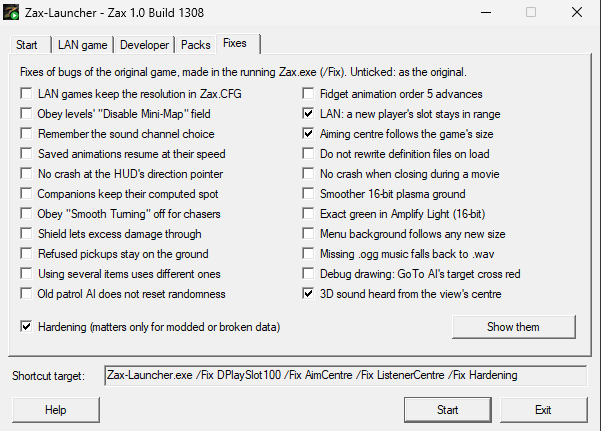
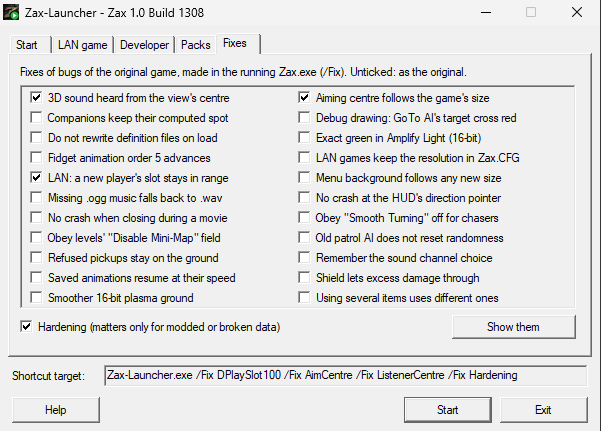
Fixes page: the fixes and the hardening fixes in scrolling lists, two per row, sorted by label
Each list is a child window with a vertical scroll bar (wheel, bar, a box taking the focus scrolls into view) whose
boxes forward their clicks to the window; fixes.h keeps its order, only the window sorts. Three-state Hardening box,
/Fix building, ini and tooltips unchanged. New README picture.

Changed region(s): [[0.03, 0.181, 0.9584, 0.7239]]

diff --git a/zax_launcher.c b/zax_launcher.c
@@ -476,6 +476,7 @@ enum {
     ID_SINGLE, ID_HOST, ID_JOIN, ID_NAME, ID_ADDRESS,
     ID_PACKS = 300, ID_PACKS_ALL, ID_PACKS_NOTE,
     ID_HARDENING = 390, ID_HARDENING_LIST,   /* the hardening group's box and the button that shows its fixes */
+    ID_FIX_LIST, ID_HARD_LIST,               /* the scrolling lists that hold the fixes' boxes */
     ID_FIX = 400   /* ID_FIX + i: the box of FIX[i] (fixes.h) */
 };
 static const char *const LAN_MODE[] = {"Off", "Host", "Join"};
@@ -522,7 +523,23 @@ static char g_zip[MAX_PATH + 16];  /* Data.zip or Data.dat, empty without */
 static int g_pool_used, g_map_count;
 static char g_args[4096];
 
-static HWND item(int id) { return GetDlgItem(g_wnd, id); }
+/* The Fixes page's scrolling lists, the fixes' and the hardening fixes' (two per row, sorted by label): the boxes are
+ * their children, so item() looks there too */
+enum { LIST_FIX, LIST_HARD, LISTS };
+static struct {
+    HWND wnd;
+    int scroll, rows;
+} g_lists[LISTS];
+static HWND g_build_parent;   /* where add() puts a control: the window (NULL), or one of the lists */
+
+static HWND item(int id)
+{
+    HWND c = GetDlgItem(g_wnd, id);
+    for (int l = 0; !c && l < LISTS; l++)
+        if (g_lists[l].wnd)
+            c = GetDlgItem(g_lists[l].wnd, id);
+    return c;
+}
 
 static void *read_file(const char *path, DWORD *size)
 {
@@ -943,26 +960,125 @@ static void save_fixes(void)
         WritePrivateProfileStringA("Fixes", FIX[i].name, checked(ID_FIX + i) ? "1" : "0", g_ini);
 }
 
-/* Built on its own page: the fixes in two columns, below them the Hardening box and the button that shows the
- * hardening fixes in the fixes' place (two columns too); each box ticked as remembered or by its default */
+/* A list: a child window with a vertical scroll bar, its boxes two per row (LIST_ROW pixels); the wheel and the bar
+ * move them, a box's clicks go on to the window (wnd_proc) as if it were the window's own */
+enum { LIST_ROW = 20 };
+
+static int list_of(HWND wnd)
+{
+    for (int l = 0; l < LISTS; l++)
+        if (g_lists[l].wnd == wnd)
+            return l;
+    return 0;
+}
+
+static void list_scroll_to(HWND list, int pos)
+{
+    const int l = list_of(list);
+    RECT r;
+    GetClientRect(list, &r);
+    const int page = r.bottom / LIST_ROW, max = g_lists[l].rows - page > 0 ? g_lists[l].rows - page : 0;
+    pos = pos < 0 ? 0 : pos > max ? max : pos;
+    if (pos != g_lists[l].scroll) {
+        ScrollWindowEx(list, 0, (g_lists[l].scroll - pos) * LIST_ROW, NULL, NULL, NULL, NULL,
+                       SW_SCROLLCHILDREN | SW_INVALIDATE | SW_ERASE);
+        g_lists[l].scroll = pos;
+    }
+    SCROLLINFO si = {sizeof si, SIF_RANGE | SIF_PAGE | SIF_POS, 0, g_lists[l].rows - 1, (UINT)page, pos, 0};
+    SetScrollInfo(list, SB_VERT, &si, TRUE);
+}
+
+static LRESULT CALLBACK list_proc(HWND wnd, UINT msg, WPARAM wp, LPARAM lp)
+{
+    const int l = list_of(wnd);
+    switch (msg) {
+    case WM_COMMAND:
+        /* a box that takes the focus (the Tab key; BS_NOTIFY) or is clicked scrolls into view */
+        if (HIWORD(wp) == BN_SETFOCUS || HIWORD(wp) == BN_CLICKED) {
+            RECT b, r;
+            GetWindowRect((HWND)lp, &b);
+            MapWindowPoints(NULL, wnd, (POINT *)&b, 2);
+            GetClientRect(wnd, &r);
+            if (b.top < 0)
+                list_scroll_to(wnd, g_lists[l].scroll + (b.top - LIST_ROW + 1) / LIST_ROW);
+            else if (b.bottom > r.bottom)
+                list_scroll_to(wnd, g_lists[l].scroll + (b.bottom - r.bottom + LIST_ROW - 1) / LIST_ROW);
+        }
+        return SendMessageA(g_wnd, msg, wp, lp);
+    case WM_VSCROLL: {
+        SCROLLINFO si = {sizeof si, SIF_ALL, 0, 0, 0, 0, 0};
+        GetScrollInfo(wnd, SB_VERT, &si);
+        int pos = g_lists[l].scroll;
+        switch (LOWORD(wp)) {
+        case SB_LINEUP: pos--; break;
+        case SB_LINEDOWN: pos++; break;
+        case SB_PAGEUP: pos -= (int)si.nPage; break;
+        case SB_PAGEDOWN: pos += (int)si.nPage; break;
+        case SB_THUMBTRACK:
+        case SB_THUMBPOSITION: pos = si.nTrackPos; break;
+        case SB_TOP: pos = 0; break;
+        case SB_BOTTOM: pos = g_lists[l].rows; break;
+        }
+        list_scroll_to(wnd, pos);
+        return 0;
+    }
+    case WM_MOUSEWHEEL:   /* a box passes the wheel on to its parent (DefWindowProc) */
+        list_scroll_to(wnd, g_lists[l].scroll - (short)HIWORD(wp) / WHEEL_DELTA * 3);
+        return 0;
+    }
+    return DefWindowProcA(wnd, msg, wp, lp);
+}
+
+/* List l at x, y (w x h) with the boxes of FIX[first] to FIX[last - 1], sorted by label (case ignored; fixes.h keeps
+ * its own order) and filled row by row, two per row in columns of 262 pixels; each ticked as remembered in the ini
+ * or by its default */
+static void add_list(int l, int x, int y, int w, int h, int id, int first, int last)
+{
+    WNDCLASSA lc;
+    memset(&lc, 0, sizeof lc);
+    lc.lpfnWndProc = list_proc;
+    lc.hInstance = GetModuleHandleA(NULL);
+    lc.hCursor = LoadCursorA(NULL, (LPCSTR)IDC_ARROW);
+    lc.hbrBackground = (HBRUSH)(COLOR_BTNFACE + 1);
+    lc.lpszClassName = "Zax-Launcher-List";
+    RegisterClassA(&lc);  /* fails harmlessly on a second call */
+    g_lists[l].wnd = add(WS_EX_CLIENTEDGE | WS_EX_CONTROLPARENT, lc.lpszClassName, "", WS_VSCROLL | WS_CLIPCHILDREN,
+                         x, y, w, h, id);
+    int order[FIXES], n = 0;
+    for (int i = first; i < last; i++) {
+        int k = n++;   /* insertion by label */
+        for (; k > 0 && lstrcmpiA(FIX[order[k - 1]].label, FIX[i].label) > 0; k--)
+            order[k] = order[k - 1];
+        order[k] = i;
+    }
+    g_build_parent = g_lists[l].wnd;
+    for (int k = 0; k < n; k++) {
+        const int i = order[k];
+        HWND box = add(0, "BUTTON", FIX[i].label, WS_TABSTOP | BS_AUTOCHECKBOX | BS_NOTIFY, 8 + (k % 2) * 268,
+                       2 + k / 2 * LIST_ROW, 262, 18, ID_FIX + i);
+        const int on = (int)GetPrivateProfileIntA("Fixes", FIX[i].name, FIX[i].on_in_window, g_ini);
+        SendMessageA(box, BM_SETCHECK, on ? BST_CHECKED : BST_UNCHECKED, 0);
+    }
+    g_build_parent = NULL;
+    g_lists[l].rows = (n + 1) / 2;
+    g_lists[l].scroll = 0;
+    list_scroll_to(g_lists[l].wnd, 0);
+}
+
+/* Built on its own page: the fixes in a scrolling list, below it the Hardening box and the button that shows the
+ * hardening fixes (in a list of their own) in the fixes' place */
 static void create_fixes_page(void)
 {
     g_build_page = PAGE_FIXES;
     add(0, "STATIC", "Fixes of bugs of the original game, made in the running Zax.exe (/Fix). Unticked: as the "
                      "original.", 0, 20, 40, 556, 16, -1);
-    const int own_rows = (FIX_FIRST_HARDENING + 1) / 2, hard_rows = (FIXES - FIX_FIRST_HARDENING + 1) / 2;
-    for (int i = 0; i < FIXES; i++) {
-        const int hard = i >= FIX_FIRST_HARDENING, k = hard ? i - FIX_FIRST_HARDENING : i, rows = hard ? hard_rows : own_rows;
-        g_build_page = hard ? PAGE_FIXES_HARDENING : PAGE_FIXES_OWN;
-        HWND box = add(0, "BUTTON", FIX[i].label, WS_TABSTOP | BS_AUTOCHECKBOX, 20 + 282 * (k / rows), 60 + 20 * (k % rows),
-                       276, 18, ID_FIX + i);
-        const int on = (int)GetPrivateProfileIntA("Fixes", FIX[i].name, FIX[i].on_in_window, g_ini);
-        SendMessageA(box, BM_SETCHECK, on ? BST_CHECKED : BST_UNCHECKED, 0);
-    }
+    g_build_page = PAGE_FIXES_OWN;
+    add_list(LIST_FIX, 20, 60, 556, 224, ID_FIX_LIST, 0, FIX_FIRST_HARDENING);
     g_build_page = PAGE_FIXES_HARDENING;
     add(0, "STATIC", "These guard against crashes on unusual or modded data; the shipped game reaches none of them. "
                      "Each one also has its own switch (/Fix Name); the box below ticks or unticks them all.",
-        0, 20, 64 + 20 * hard_rows, 556, 32, -1);
+        0, 20, 60, 556, 32, -1);
+    add_list(LIST_HARD, 20, 96, 556, 188, ID_HARD_LIST, FIX_FIRST_HARDENING, FIXES);
     g_build_page = PAGE_FIXES;
     add(0, "BUTTON", HARDENING_LABEL, WS_TABSTOP | BS_3STATE, 20, 292, 400, 20, ID_HARDENING);
     add(0, "BUTTON", "Show them", WS_TABSTOP, 452, 290, 124, 24, ID_HARDENING_LIST);
@@ -976,8 +1092,8 @@ static void add_fix_tooltips(HWND tip)
         memset(&ti, 0, sizeof ti);
         ti.cbSize = TTTOOLINFOA_V2_SIZE;
         ti.uFlags = TTF_IDISHWND | TTF_SUBCLASS;
-        ti.hwnd = g_wnd;
         ti.uId = (UINT_PTR)item(ID_FIX + i);
+        ti.hwnd = GetParent((HWND)ti.uId);   /* its list */
         ti.lpszText = (LPSTR)FIX[i].tip;
         SendMessageA(tip, TTM_ADDTOOLA, 0, (LPARAM)&ti);
     }
@@ -1140,10 +1256,11 @@ static void fill_modes(void)
 
 static HWND add(DWORD ex, const char *cls, const char *text, DWORD style, int x, int y, int w, int h, int id)
 {
-    HWND c = CreateWindowExA(ex, cls, text, WS_CHILD | WS_VISIBLE | style, x, y, w, h, g_wnd,
+    HWND c = CreateWindowExA(ex, cls, text, WS_CHILD | WS_VISIBLE | style, x, y, w, h, g_build_parent ? g_build_parent : g_wnd,
                              (HMENU)(INT_PTR)id, GetModuleHandleA(NULL), NULL);
     SendMessageA(c, WM_SETFONT, (WPARAM)GetStockObject(DEFAULT_GUI_FONT), 0);
-    if (g_control_count < (int)(sizeof g_controls / sizeof *g_controls)) {
+    /* a box in a list is shown and hidden with the list */
+    if (!g_build_parent && g_control_count < (int)(sizeof g_controls / sizeof *g_controls)) {
         g_controls[g_control_count].wnd = c;
         g_controls[g_control_count++].page = g_build_page;
     }

diff --git a/docs/FIXES.md b/docs/FIXES.md
@@ -9,7 +9,9 @@ does), a bare command line gets none. Without a `/Fix` switch the DLL changes no
 The **hardening** fixes (the last seven in the table) guard against crashes on unusual or modded data; the shipped game
 reaches none of them. As in the port they form a group: `/Fix Hardening` turns on all of them (each still has its own
 switch), and the Fixes page shows a three-state "Hardening" box below the other fixes, with a button that shows its
-fixes one by one in their place; the window writes `/Fix Hardening` when all are ticked.
+fixes one by one in their place; the window writes `/Fix Hardening` when all are ticked. Both the fixes and the
+hardening fixes sit in a scrolling list (the wheel, the scroll bar, a box reached with Tab scrolls into view), two per
+row, sorted by their label; the table below keeps the order of `fixes.h`.
 
 The fixes follow the port (zax-redone, its `[Fix]` switches; the bugs, their addresses and evidence are in its
 `docs/ORIGINAL_BUGS.md`, cited below as "OB"). The port reimplements the code; the launcher can only change a few bytes
@@ -153,3 +155,8 @@ all 29 again (A `-065620-9f7a`, B `-065715-6506`), no switch `-065715-910c`. Wit
 The start window (platform B): the Fixes page as in the README's picture, `/Fix Hardening` on the shortcut target when all
 seven are ticked; "Show them" shows the seven in place of the fixes, a click on the Hardening box unticks all seven (the
 target loses `/Fix Hardening`), "Back to the fixes" returns (`-065501-744c`).
+The scrolling lists (platform B): the fixes sorted by label, every label whole, a click on a box changes the shortcut
+target, the hardening list behind "Show them" and back (`-115303-cba4`); a test build with shorter lists (not
+committed): the wheel to the end and back, Tab and Shift+Tab scroll the focused box into view (`-115302-c0ec`,
+`-115833-dc0e`); a start from the window with six fixes ticked: six times "enabled", the game reaches the map
+(`-115302-81d8`).

diff --git a/README.md b/README.md
@@ -22,7 +22,7 @@ Zax-Launcher.exe, a launcher for the original Zax.exe of "Zax: The Alien Hunter"
 
 ![The Fixes page: one box per fix of the original's bugs](docs/images/launcher-fixes.png)
 
-*The Fixes page: the fixes of the original's bugs (`/Fix Name`, [docs/FIXES.md](docs/FIXES.md)).*
+*The Fixes page: the fixes of the original's bugs (`/Fix Name`, [docs/FIXES.md](docs/FIXES.md)) in a scrolling list, sorted by label; the hardening fixes in a list of their own behind "Show them".*
 
 ![The game menu (Esc) with the "Load Map" button](docs/images/launcher-game-menu.png)
 
